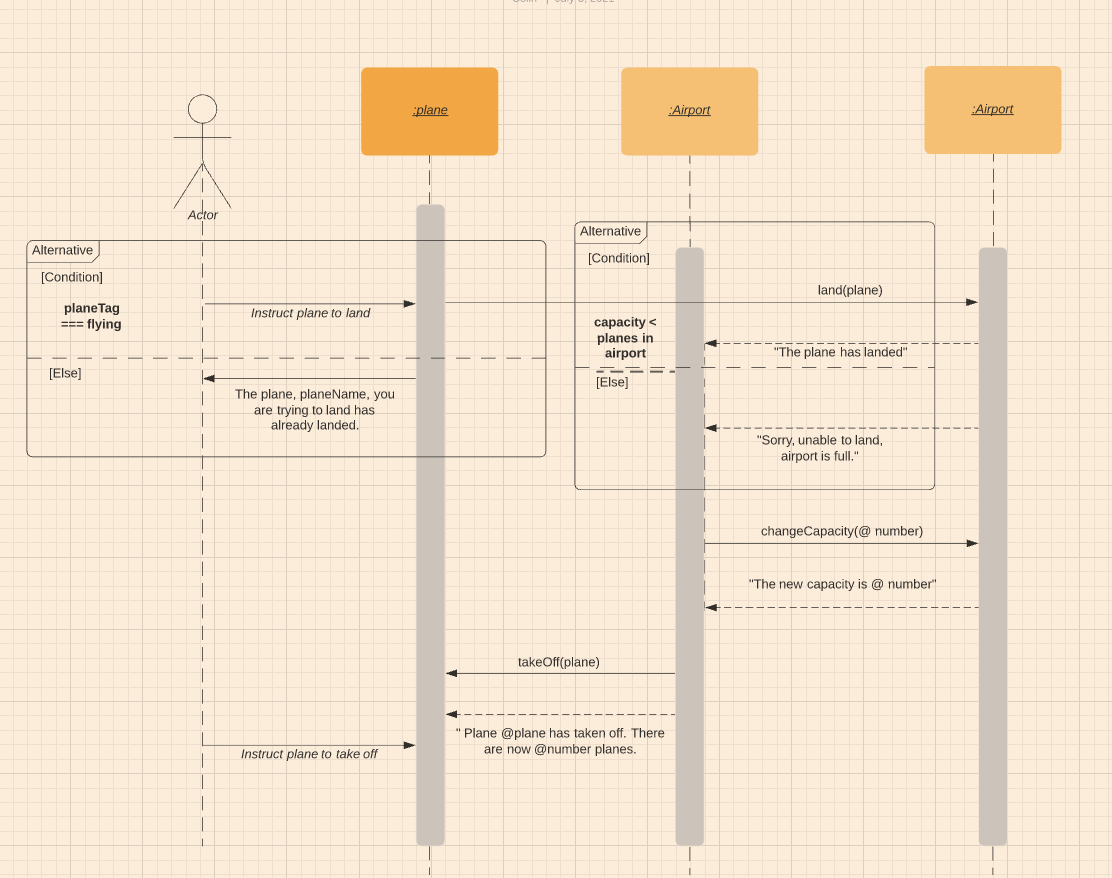
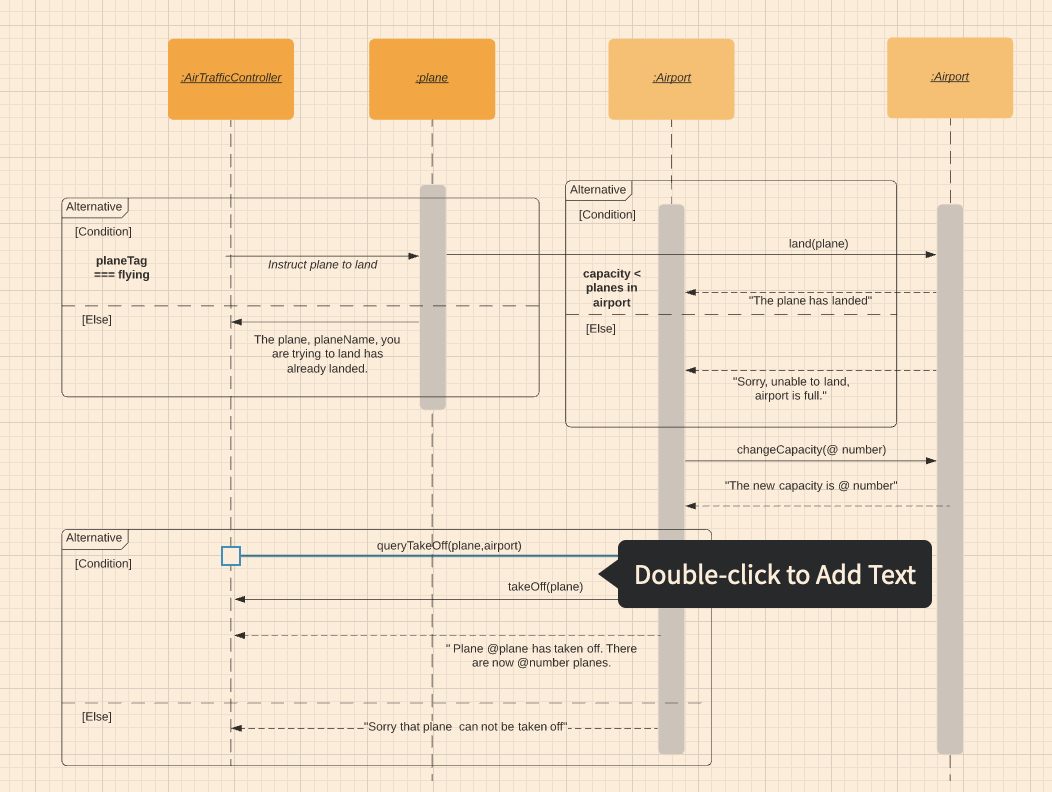
updated domain model, introduced AirTrafficController class, moved some tests to atc.spec.js

diff --git a/specs/atc.spec.js b/specs/atc.spec.js
@@ -1,0 +1,48 @@
+const Airport = require("../src/airport.js");
+const Plane = require("../src/plane.js");
+
+let heathrow, gatwick, plane, planeFlying, atc
+
+//---------------------------------------
+// Test to check a flying plane can not takeOff()
+    console.log("Test to check a plane that is flying is ")
+// Setup
+planeFlying = new Plane('Delta', 'flying');
+airport = new Airport();
+atc = new AirTrafficController();
+
+//Execute 
+atc.queryTakeOff(planeFlying);
+
+//Verify 
+console.log(`Flying planes do not take off: ${assertEquals(atc.queryTakeOff(planeFlying), "The plane, Delta, you are trying to take off is already flying")}`);
+console.log(`Planes in the airport remained unmodified: ${assertEquals(airport.planes.length, 0)}\n`);
+
+// Multiple Airports Tests
+console.log("Test to check a plane landed in a another airport can not take off from the current airport")
+// Setup
+heathrow = new Airport();
+gatwick = new Airport();
+plane = new Plane('Lufthansa', 'flying');
+airport.land(plane);
+
+atc = new AirTrafficController();
+
+//Execute 
+atc.queryTakeOff(plane, airport);
+
+//Verify 
+console.log(`Flying planes do not take off: ${assertEquals(atc.queryTakeOff(planeFlying), "The plane, Delta, you are trying to take off is already flying")}`);
+console.log(`Planes in the airport remained unmodified: ${assertEquals(airport.planes.length, 0)}\n`);
+
+
+// Test to check a not flying plane can not land() again. 
+console.log("Test to check a plane that is landed can not use the land() method")
+// Setup
+planeLanded = new Plane('American', 'landed');
+//Execute 
+console.log(planeLanded);
+
+//Verify 
+console.log(`Landed planes do not land again: ${assertEquals(airport.land(planeLanded), "The plane, American, you are trying to land has already landed")}`);
+console.log(`Planes in the airport remained unmodified: ${assertEquals(airport.planes.length, 1)}`);

diff --git a/specs/airport.spec.js b/specs/airport.spec.js
@@ -97,28 +97,7 @@ console.log(airport.takeOff(plane2));
 // Land a plane in an empty Airport
 console.log(`Correct confirmation message returned: ${assertEquals(airport.takeOff(plane1), "Plane Delta has taken off. There are now 0 planes.")} \n`)
 
-// ---------------------------------------
-// Test to check a flying plane can not takeOff()
-console.log("Test to check a plane that is flying can not use the takeOff() method")
-// Setup
-planeFlying = new Plane('Delta','flying'); 
-//Execute 
-airport.takeOff(planeFlying);
-//Verify 
-console.log(`Flying planes do not take off: ${assertEquals(airport.takeOff(planeFlying),"The plane, Delta, you are trying to take off is already flying")}`);
-console.log(`Planes in the airport remained unmodified: ${assertEquals(airport.planes.length,0)}\n`);
-
-// Test to check a not flying plane can not land() again. 
-console.log("Test to check a plane that is landed can not use the land() method")
-// Setup
-planeLanded = new Plane('American', 'landed');
-//Execute 
-console.log(planeLanded);
-
-//Verify 
-console.log(`Landed planes do not land again: ${assertEquals(airport.land(planeLanded), "The plane, American, you are trying to land has already landed")}`);
-console.log(`Planes in the airport remained unmodified: ${assertEquals(airport.planes.length, 1)}`);
-
+// 
 //-------------------------------------
 console.log("\x1b[35m","--- End of Airport Class Tests ---");
 console.log("\x1b[0m",'');

diff --git a/src/airport.js b/src/airport.js
@@ -9,9 +9,7 @@ class Airport {
   }
 
   land (plane) {   
-    if (plane.flyingStatus === 'landed'){
-      return "Sorry, that plane is already landed."
-    } else if (this.planes.length < this.capacity) {
+   if (this.planes.length < this.capacity) {
       plane.flyingStatus = 'landed';
       this.planes.push(plane);
       return "The plane has landed."

diff --git a/dom_mod/domain_model.md b/dom_mod/domain_model.md
@@ -91,6 +91,8 @@ We have introduced a flying property to the plane object. The planes array will 
 
 |Objects|Properties| Messages| Output|
 |---| --- | ---| --- |
+| Air Traffic Controller | | queryTakeOff(plane, airport)| |
+| | |queryLanded(plane, airport)| |
 | Plane | name @ String | | |
 | | flyingStatus @ String | | | 
 |Airport | planes @ array | land(@ plane) | @ String |  
